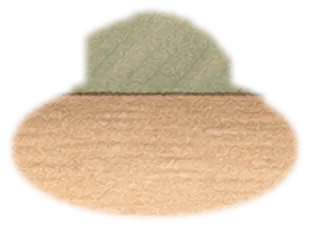
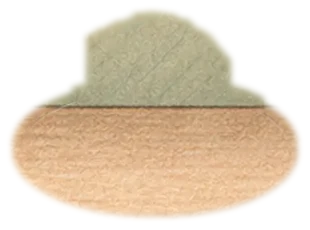
Swap the blueberry lemon cake and the marble cake on the shelf
Blueberry, Almond & Lemon is now No. 2 on the top shelf and Marble No. 5
below. The cabinet painting is recomposed from the painting's own pixels
(each cake cut out with its existing mask and moved onto the other
shelf), the empty-shelf patches behind the lifting cakes are recut for
the new places, and the recipe order follows so the numbers read in order.

Claude-Session: https://claude.ai/code/session_01QV7fEaFaE6dcaSifX5vTod

diff --git a/index.html b/index.html
@@ -3765,70 +3765,65 @@ const RJ={
         note:'Need to research more on 糖渍橙子 (candied orange peel). May also need to cut the orange peel slices to even smaller pieces for a finer taste. Reminded me of how sweet Japanese sweets can be — their sugar level is not low, which I now appreciate.' }
     ]
   },
-  marble:{
-    name:'Marble Pound Cake',
-    zh_name:'大理石纹磅蛋糕',
-    source:'Tartine Bakery',
-    zh_source:'Tartine Bakery',
-    photo:'./images/recipes/card/marble_both.jpg',
-    tags:['Dramatic','Two Flavours','Visual'],
-    zh_tags:['视觉惊艳','双重风味','层次丰富'],
+  blueberry:{
+    name:'Blueberry, Almond &amp; Lemon Cake',
+    zh_name:'蓝莓杏仁柠檬蛋糕',
+    source:'Yotam Ottolenghi · NYT Cooking',
+    zh_source:'Yotam Ottolenghi · NYT Cooking',
+    photo:'./images/recipes/Blueberry, Almond and Lemon Cake.jpg',
+    tags:['Bright','Fruity','Almond'],
+    zh_tags:['清新明亮','果香四溢','杏仁风味'],
     zh_ing:[
-      '中筋面粉 — 185g（1⅓杯 + 1大勺）',
-      '泡打粉 — ¾小勺',
-      '无盐黄油 — 200g（¾杯 + 2大勺），室温软化',
-      '细砂糖 — 200g（1杯）',
-      '盐 — ½小勺',
-      '大号鸡蛋 — 3个，室温',
-      '大号蛋黄 — 1个',
-      '酸奶油 — 120g（½杯）',
-      '香草精 — 1大勺',
-      '— 抹茶版：抹茶粉 1大勺',
-      '— 巧克力版：可可粉 3大勺（15g）+ 冷却浓咖啡 1大勺',
-      '— 柠檬糖霜版：柠檬皮屑 2小勺 + 柠檬汁 1½大勺 + 糖粉 125g',
+      '无盐黄油 — 150g（½杯 + 3大勺），室温软化',
+      '细砂糖 — 190g（略不足1杯）',
+      '柠檬皮屑 — 1小勺，另加柠檬汁1大勺',
+      '香草精 — 1小勺',
+      '鸡蛋 — 3个大号，打散',
+      '中筋面粉 — 90g（⅔杯），筛过',
+      '泡打粉 — 1¼小勺',
+      '盐 — ⅛小勺',
+      '杏仁粉 — 110g（1杯）',
+      '新鲜蓝莓 — 200g（1½杯）',
+      '— 糖霜：糖粉70g（⅔杯）+ 柠檬汁1大勺',
     ],
     zh_method:[
-      '<b>预热烤箱，准备模具</b>烤箱预热至350°F / 180°C。在23×12cm吐司模内薄薄涂一层黄油。',
-      '<b>筛粉备用</b>将面粉和泡打粉一同筛匀，备用。',
-      '<b>打发黄油和糖</b>中速打发黄油、细砂糖和盐，约1分钟，至混合均匀、颜色略变浅。',
-      '<b>加入鸡蛋</b>将鸡蛋和蛋黄逐个加入，每次加入后充分搅匀再加下一个。期间注意刮拌盆壁和盆底。',
-      '<b>加入酸奶油和香草精</b>中速将酸奶油和香草精混入面糊。',
-      '<b>拌入面粉</b>调低速，先加入一半面粉混合物，基本拌匀后加入剩余面粉，拌至完全融合。',
-      '<b>大理石纹——抹茶版</b>将三分之二面糊舀入模具。将筛过的抹茶粉拌入剩余三分之一面糊，铺在上方，用曲柄刮刀轻划3到4下即止。',
-      '<b>大理石纹——巧克力版</b>同抹茶版：取三分之一原味面糊，拌入可可粉和咖啡，铺在上方，轻划几下即可。',
-      '<b>烘烤</b>烤45至55分钟，至中心定型、刀插入取出干净。移至晾架完全冷却后脱模。',
+      '<b>预热烤箱，准备模具</b>烤箱预热至375°F / 190°C。在9寸或8寸吐司模内涂黄油，铺烘焙纸吊耳，纸上再涂一层黄油。',
+      '<b>打发黄油和糖</b>将黄油、细砂糖、柠檬皮屑和香草精高速打发3至4分钟至蓬松发白，转中速。',
+      '<b>加入鸡蛋</b>分三次加入打散的蛋液，每次加入后刮拌盆壁。混合物可能略微分离——加入粉类后会自然恢复。',
+      '<b>混合粉类</b>将面粉、泡打粉、盐和杏仁粉在另一个碗中搅匀。',
+      '<b>翻拌粉类</b>调低速，分三次加入粉类，拌至刚好看不见白色粉粒即止。',
+      '<b>加入蓝莓</b>取四分之三的蓝莓，用手轻柔翻入面糊。将面糊舀入准备好的模具。',
+      '<b>第一阶段烘烤</b>烤15分钟，取出后将剩余蓝莓撒在表面。',
+      '<b>继续烘烤</b>放回烤箱再烤15至20分钟，至表面金黄但中心仍略湿润。用锡纸松松盖住，再烤25至30分钟，至刀插入取出干净。',
+      '<b>冷却与淋糖霜</b>在模具中冷却10分钟，移至晾架。完全冷却后，将柠檬汁加入糖粉中搅匀至顺滑，淋在蛋糕上，静置30分钟待凝固后再切。',
     ],
-    zh_thinking:'Tartine的配方对经典1:1:1:1做了一处关键改动：<b>以酸奶油取代部分鸡蛋的油脂</b>，让蛋糕组织更轻盈细腻，带有淡淡的乳酸清香。大理石纹路的手法无论抹茶还是巧克力都一样——<b>取三分之一面糊拌入风味材料，铺在上方，轻轻划拌</b>。关键原则：<b>曲柄刮刀最多划3到4下</b>，再多颜色就会混浊。切面图可以看到两个版本并排——抹茶保持鲜亮，巧克力依然深邃。',
+    zh_thinking:'Ottolenghi用<b>杏仁粉</b>取代了部分中筋面粉，这对蛋糕组织的影响相当显著——杏仁粉不含麸质，提供的是油脂和水分而非结构。成品比经典磅蛋糕<b>更扎实、更湿润细腻</b>，内部带有类似软糕的质感。<b>分阶段烘烤</b>（中途加入蓝莓）的目的是让顶部的蓝莓保持饱满，而不是沉底烤焦。这款蛋糕<b>当天最好吃</b>，但柠檬糖霜能封住水分，让它多保鲜一天。',
     ing:[
-      'All-purpose flour — 185g (1⅓ cups + 1 Tbsp)',
-      'Baking powder — ¾ tsp',
-      'Unsalted butter — 200g (¾ cup + 2 Tbsp), room temperature',
-      'Granulated sugar — 200g (1 cup)',
-      'Salt — ½ tsp',
-      'Large eggs — 3, room temperature',
-      'Large egg yolk — 1',
-      'Sour cream — 120g (½ cup)',
-      'Vanilla extract — 1 Tbsp',
-      '— Matcha variation: 1 Tbsp matcha powder',
-      '— Chocolate variation: 3 Tbsp (15g) cocoa powder + 1 Tbsp cooled coffee',
-      '— Glazed lemon: 2 tsp zest + 1½ Tbsp lemon juice + 125g confectioners sugar'
+      'Unsalted butter — 150g (½ cup + 3 Tbsp), room temperature',
+      'Granulated sugar — 190g (1 scant cup)',
+      'Lemon zest — 1 tsp, plus 1 Tbsp lemon juice',
+      'Vanilla extract — 1 tsp',
+      'Eggs — 3 large, beaten',
+      'All-purpose flour — 90g (⅔ cup), sifted',
+      'Baking powder — 1¼ tsp',
+      'Salt — ⅛ tsp',
+      'Almond flour — 110g (1 cup)',
+      'Fresh blueberries — 200g (1½ cups)',
+      '— Icing: 70g (⅔ cup) icing sugar + 1 Tbsp lemon juice'
     ],
     method:[
-      '<b>Preheat and prep</b>Preheat oven to 350°F / 180°C. Lightly butter a 9×5 in (23×12 cm) loaf pan.',
-      '<b>Sift dry ingredients</b>Sift the flour and baking powder together. Set aside.',
-      '<b>Cream butter and sugar</b>Beat butter, granulated sugar, and salt on medium speed until combined and lighter in colour, about 1 minute.',
-      '<b>Add eggs</b>Add the eggs and egg yolk one at a time, mixing well after each addition until incorporated before adding the next. Scrape down the sides and bottom of the bowl.',
-      '<b>Add sour cream and vanilla</b>On medium speed, mix in the sour cream and vanilla extract.',
-      '<b>Fold in flour</b>On low speed, add half the flour mixture. Once mostly combined, add the remaining flour and mix until fully incorporated.',
-      '<b>Marble — matcha</b>Spoon two-thirds of the batter into the prepared pan. Mix sifted matcha powder into the reserved third. Spoon on top and marble slightly with an offset spatula — 3 to 4 passes only.',
-      '<b>Marble — chocolate</b>Same as matcha: reserve one-third of the plain batter, mix in sifted cocoa powder and coffee, spoon on top, marble slightly.',
-      '<b>Bake</b>Bake 45–55 minutes until the centre is set and a knife inserted into the centre comes out clean. Transfer to a wire rack and cool completely, then turn out.',
+      '<b>Preheat and prep</b>Heat oven to 375°F / 190°C. Grease a 9- or 8-inch loaf pan, line with a parchment sling and butter the paper.',
+      '<b>Cream butter and sugar</b>Beat butter, sugar, lemon zest and vanilla on high for 3–4 minutes until light. Lower to medium speed.',
+      '<b>Add the eggs</b>Add the beaten eggs in three additions, scraping the bowl as needed. The mix may split slightly — it will come back together once the dry ingredients go in.',
+      '<b>Mix dry ingredients</b>Whisk together flour, baking powder, salt, and almond flour in a separate bowl.',
+      '<b>Fold in dry ingredients</b>With mixer on low, add dry ingredients in three additions, mixing just until no white specks remain.',
+      '<b>Add blueberries</b>Fold in three-quarters of the blueberries by hand. Scoop batter into the prepared pan.',
+      '<b>First bake</b>Bake for 15 minutes, then scatter the remaining blueberries over the top.',
+      '<b>Continue baking</b>Return to oven for 15–20 minutes more until golden but still slightly uncooked in the centre. Cover loosely with foil and bake a further 25–30 minutes until a knife comes out clean.',
+      '<b>Cool and ice</b>Cool in pan for 10 minutes, then transfer to a rack. Once fully cool, whisk lemon juice into icing sugar until smooth and pourable. Drizzle over the cake and let set 30 minutes before slicing.'
     ],
-    thinking:'The Tartine recipe departs from the classic 1:1:1:1 in one key way: <b>sour cream replaces some of the egg fat</b>, making the crumb lighter and more tender with a slight tang. The marble technique is the same whether matcha or chocolate — <b>reserve one-third of the batter, mix in the flavouring, spoon on top and swirl</b>. The critical rule: <b>3 to 4 passes with an offset spatula maximum</b>. More and the colours muddy. The cross-section in the photo shows both versions side by side — the matcha stays bright, the chocolate stays dark.',
-    bakes:[
-      { date:'March 26, 2026', photos:['./images/recipes/marble_both.jpg','./images/recipes/marble.jpg'],
-        note:'You can really see how sour cream brings tenderness to the recipe. I find this one really tasty.' }
-    ]
+    thinking:'Ottolenghi replaces a portion of all-purpose flour with <b>almond flour</b>, which changes the crumb dramatically — almond flour has no gluten, so it contributes fat and moisture rather than structure. The result is <b>denser and more tender</b> than a classic pound cake, with a fudgier interior. The <b>staged baking method</b> (add blueberries halfway through) means the top fruit stays plump rather than sinking and burning. The cake is at its best <b>on the day it\'s made</b>, but the lemon icing seals in moisture and buys it another day.',
+    bakes:[]
   },
   classic:{
     name:'Classic Quatre-Quarts',
@@ -3926,65 +3921,70 @@ const RJ={
         note:'The best one I\'ve made so far — the taste is outstanding. It\'s inspired me to use rum-soaked raisins and dried fruits more in baking. The flavour a day later is noticeably deeper than fresh out of the oven.' }
     ]
   },
-  blueberry:{
-    name:'Blueberry, Almond &amp; Lemon Cake',
-    zh_name:'蓝莓杏仁柠檬蛋糕',
-    source:'Yotam Ottolenghi · NYT Cooking',
-    zh_source:'Yotam Ottolenghi · NYT Cooking',
-    photo:'./images/recipes/Blueberry, Almond and Lemon Cake.jpg',
-    tags:['Bright','Fruity','Almond'],
-    zh_tags:['清新明亮','果香四溢','杏仁风味'],
+  marble:{
+    name:'Marble Pound Cake',
+    zh_name:'大理石纹磅蛋糕',
+    source:'Tartine Bakery',
+    zh_source:'Tartine Bakery',
+    photo:'./images/recipes/card/marble_both.jpg',
+    tags:['Dramatic','Two Flavours','Visual'],
+    zh_tags:['视觉惊艳','双重风味','层次丰富'],
     zh_ing:[
-      '无盐黄油 — 150g（½杯 + 3大勺），室温软化',
-      '细砂糖 — 190g（略不足1杯）',
-      '柠檬皮屑 — 1小勺，另加柠檬汁1大勺',
-      '香草精 — 1小勺',
-      '鸡蛋 — 3个大号，打散',
-      '中筋面粉 — 90g（⅔杯），筛过',
-      '泡打粉 — 1¼小勺',
-      '盐 — ⅛小勺',
-      '杏仁粉 — 110g（1杯）',
-      '新鲜蓝莓 — 200g（1½杯）',
-      '— 糖霜：糖粉70g（⅔杯）+ 柠檬汁1大勺',
+      '中筋面粉 — 185g（1⅓杯 + 1大勺）',
+      '泡打粉 — ¾小勺',
+      '无盐黄油 — 200g（¾杯 + 2大勺），室温软化',
+      '细砂糖 — 200g（1杯）',
+      '盐 — ½小勺',
+      '大号鸡蛋 — 3个，室温',
+      '大号蛋黄 — 1个',
+      '酸奶油 — 120g（½杯）',
+      '香草精 — 1大勺',
+      '— 抹茶版：抹茶粉 1大勺',
+      '— 巧克力版：可可粉 3大勺（15g）+ 冷却浓咖啡 1大勺',
+      '— 柠檬糖霜版：柠檬皮屑 2小勺 + 柠檬汁 1½大勺 + 糖粉 125g',
     ],
     zh_method:[
-      '<b>预热烤箱，准备模具</b>烤箱预热至375°F / 190°C。在9寸或8寸吐司模内涂黄油，铺烘焙纸吊耳，纸上再涂一层黄油。',
-      '<b>打发黄油和糖</b>将黄油、细砂糖、柠檬皮屑和香草精高速打发3至4分钟至蓬松发白，转中速。',
-      '<b>加入鸡蛋</b>分三次加入打散的蛋液，每次加入后刮拌盆壁。混合物可能略微分离——加入粉类后会自然恢复。',
-      '<b>混合粉类</b>将面粉、泡打粉、盐和杏仁粉在另一个碗中搅匀。',
-      '<b>翻拌粉类</b>调低速，分三次加入粉类，拌至刚好看不见白色粉粒即止。',
-      '<b>加入蓝莓</b>取四分之三的蓝莓，用手轻柔翻入面糊。将面糊舀入准备好的模具。',
-      '<b>第一阶段烘烤</b>烤15分钟，取出后将剩余蓝莓撒在表面。',
-      '<b>继续烘烤</b>放回烤箱再烤15至20分钟，至表面金黄但中心仍略湿润。用锡纸松松盖住，再烤25至30分钟，至刀插入取出干净。',
-      '<b>冷却与淋糖霜</b>在模具中冷却10分钟，移至晾架。完全冷却后，将柠檬汁加入糖粉中搅匀至顺滑，淋在蛋糕上，静置30分钟待凝固后再切。',
+      '<b>预热烤箱，准备模具</b>烤箱预热至350°F / 180°C。在23×12cm吐司模内薄薄涂一层黄油。',
+      '<b>筛粉备用</b>将面粉和泡打粉一同筛匀，备用。',
+      '<b>打发黄油和糖</b>中速打发黄油、细砂糖和盐，约1分钟，至混合均匀、颜色略变浅。',
+      '<b>加入鸡蛋</b>将鸡蛋和蛋黄逐个加入，每次加入后充分搅匀再加下一个。期间注意刮拌盆壁和盆底。',
+      '<b>加入酸奶油和香草精</b>中速将酸奶油和香草精混入面糊。',
+      '<b>拌入面粉</b>调低速，先加入一半面粉混合物，基本拌匀后加入剩余面粉，拌至完全融合。',
+      '<b>大理石纹——抹茶版</b>将三分之二面糊舀入模具。将筛过的抹茶粉拌入剩余三分之一面糊，铺在上方，用曲柄刮刀轻划3到4下即止。',
+      '<b>大理石纹——巧克力版</b>同抹茶版：取三分之一原味面糊，拌入可可粉和咖啡，铺在上方，轻划几下即可。',
+      '<b>烘烤</b>烤45至55分钟，至中心定型、刀插入取出干净。移至晾架完全冷却后脱模。',
     ],
-    zh_thinking:'Ottolenghi用<b>杏仁粉</b>取代了部分中筋面粉，这对蛋糕组织的影响相当显著——杏仁粉不含麸质，提供的是油脂和水分而非结构。成品比经典磅蛋糕<b>更扎实、更湿润细腻</b>，内部带有类似软糕的质感。<b>分阶段烘烤</b>（中途加入蓝莓）的目的是让顶部的蓝莓保持饱满，而不是沉底烤焦。这款蛋糕<b>当天最好吃</b>，但柠檬糖霜能封住水分，让它多保鲜一天。',
+    zh_thinking:'Tartine的配方对经典1:1:1:1做了一处关键改动：<b>以酸奶油取代部分鸡蛋的油脂</b>，让蛋糕组织更轻盈细腻，带有淡淡的乳酸清香。大理石纹路的手法无论抹茶还是巧克力都一样——<b>取三分之一面糊拌入风味材料，铺在上方，轻轻划拌</b>。关键原则：<b>曲柄刮刀最多划3到4下</b>，再多颜色就会混浊。切面图可以看到两个版本并排——抹茶保持鲜亮，巧克力依然深邃。',
     ing:[
-      'Unsalted butter — 150g (½ cup + 3 Tbsp), room temperature',
-      'Granulated sugar — 190g (1 scant cup)',
-      'Lemon zest — 1 tsp, plus 1 Tbsp lemon juice',
-      'Vanilla extract — 1 tsp',
-      'Eggs — 3 large, beaten',
-      'All-purpose flour — 90g (⅔ cup), sifted',
-      'Baking powder — 1¼ tsp',
-      'Salt — ⅛ tsp',
-      'Almond flour — 110g (1 cup)',
-      'Fresh blueberries — 200g (1½ cups)',
-      '— Icing: 70g (⅔ cup) icing sugar + 1 Tbsp lemon juice'
+      'All-purpose flour — 185g (1⅓ cups + 1 Tbsp)',
+      'Baking powder — ¾ tsp',
+      'Unsalted butter — 200g (¾ cup + 2 Tbsp), room temperature',
+      'Granulated sugar — 200g (1 cup)',
+      'Salt — ½ tsp',
+      'Large eggs — 3, room temperature',
+      'Large egg yolk — 1',
+      'Sour cream — 120g (½ cup)',
+      'Vanilla extract — 1 Tbsp',
+      '— Matcha variation: 1 Tbsp matcha powder',
+      '— Chocolate variation: 3 Tbsp (15g) cocoa powder + 1 Tbsp cooled coffee',
+      '— Glazed lemon: 2 tsp zest + 1½ Tbsp lemon juice + 125g confectioners sugar'
     ],
     method:[
-      '<b>Preheat and prep</b>Heat oven to 375°F / 190°C. Grease a 9- or 8-inch loaf pan, line with a parchment sling and butter the paper.',
-      '<b>Cream butter and sugar</b>Beat butter, sugar, lemon zest and vanilla on high for 3–4 minutes until light. Lower to medium speed.',
-      '<b>Add the eggs</b>Add the beaten eggs in three additions, scraping the bowl as needed. The mix may split slightly — it will come back together once the dry ingredients go in.',
-      '<b>Mix dry ingredients</b>Whisk together flour, baking powder, salt, and almond flour in a separate bowl.',
-      '<b>Fold in dry ingredients</b>With mixer on low, add dry ingredients in three additions, mixing just until no white specks remain.',
-      '<b>Add blueberries</b>Fold in three-quarters of the blueberries by hand. Scoop batter into the prepared pan.',
-      '<b>First bake</b>Bake for 15 minutes, then scatter the remaining blueberries over the top.',
-      '<b>Continue baking</b>Return to oven for 15–20 minutes more until golden but still slightly uncooked in the centre. Cover loosely with foil and bake a further 25–30 minutes until a knife comes out clean.',
-      '<b>Cool and ice</b>Cool in pan for 10 minutes, then transfer to a rack. Once fully cool, whisk lemon juice into icing sugar until smooth and pourable. Drizzle over the cake and let set 30 minutes before slicing.'
+      '<b>Preheat and prep</b>Preheat oven to 350°F / 180°C. Lightly butter a 9×5 in (23×12 cm) loaf pan.',
+      '<b>Sift dry ingredients</b>Sift the flour and baking powder together. Set aside.',
+      '<b>Cream butter and sugar</b>Beat butter, granulated sugar, and salt on medium speed until combined and lighter in colour, about 1 minute.',
+      '<b>Add eggs</b>Add the eggs and egg yolk one at a time, mixing well after each addition until incorporated before adding the next. Scrape down the sides and bottom of the bowl.',
+      '<b>Add sour cream and vanilla</b>On medium speed, mix in the sour cream and vanilla extract.',
+      '<b>Fold in flour</b>On low speed, add half the flour mixture. Once mostly combined, add the remaining flour and mix until fully incorporated.',
+      '<b>Marble — matcha</b>Spoon two-thirds of the batter into the prepared pan. Mix sifted matcha powder into the reserved third. Spoon on top and marble slightly with an offset spatula — 3 to 4 passes only.',
+      '<b>Marble — chocolate</b>Same as matcha: reserve one-third of the plain batter, mix in sifted cocoa powder and coffee, spoon on top, marble slightly.',
+      '<b>Bake</b>Bake 45–55 minutes until the centre is set and a knife inserted into the centre comes out clean. Transfer to a wire rack and cool completely, then turn out.',
     ],
-    thinking:'Ottolenghi replaces a portion of all-purpose flour with <b>almond flour</b>, which changes the crumb dramatically — almond flour has no gluten, so it contributes fat and moisture rather than structure. The result is <b>denser and more tender</b> than a classic pound cake, with a fudgier interior. The <b>staged baking method</b> (add blueberries halfway through) means the top fruit stays plump rather than sinking and burning. The cake is at its best <b>on the day it\'s made</b>, but the lemon icing seals in moisture and buys it another day.',
-    bakes:[]
+    thinking:'The Tartine recipe departs from the classic 1:1:1:1 in one key way: <b>sour cream replaces some of the egg fat</b>, making the crumb lighter and more tender with a slight tang. The marble technique is the same whether matcha or chocolate — <b>reserve one-third of the batter, mix in the flavouring, spoon on top and swirl</b>. The critical rule: <b>3 to 4 passes with an offset spatula maximum</b>. More and the colours muddy. The cross-section in the photo shows both versions side by side — the matcha stays bright, the chocolate stays dark.',
+    bakes:[
+      { date:'March 26, 2026', photos:['./images/recipes/marble_both.jpg','./images/recipes/marble.jpg'],
+        note:'You can really see how sour cream brings tenderness to the recipe. I find this one really tasty.' }
+    ]
   },
   chocZucchini:{
     name:'Chocolate Zucchini Loaf',

diff --git a/recipe-shelf.js b/recipe-shelf.js
@@ -49,10 +49,10 @@ function stampFor(id){
 // (on the shelf lip for the upper floor, on the plinth for the lower).
 const SCENE = {
   orange:       { x:14.118, y:25.372, w:17.857, h:13.096, tx:8.809, ty:13.453 },
-  marble:       { x:40.309, y:25.372, w:18.155, h:13.096, tx:9.048, ty:13.453 },
+  blueberry:    { x:40.22,  y:24.777, w:18.452, h:13.691, tx:9.137, ty:14.048 },
   classic:      { x:67.393, y:25.372, w:18.452, h:13.096, tx:9.048, ty:13.453 },
   rum:          { x:13.821, y:46.801, w:18.452, h:13.691, tx:9.204, ty:13.928 },
-  blueberry:    { x:40.309, y:46.801, w:18.452, h:13.691, tx:9.137, ty:13.928 },
+  marble:       { x:40.398, y:47.396, w:18.155, h:13.096, tx:9.048, ty:13.333 },
   chocZucchini: { x:67.096, y:46.801, w:18.452, h:13.691, tx:9.018, ty:13.928 },
 };
 
